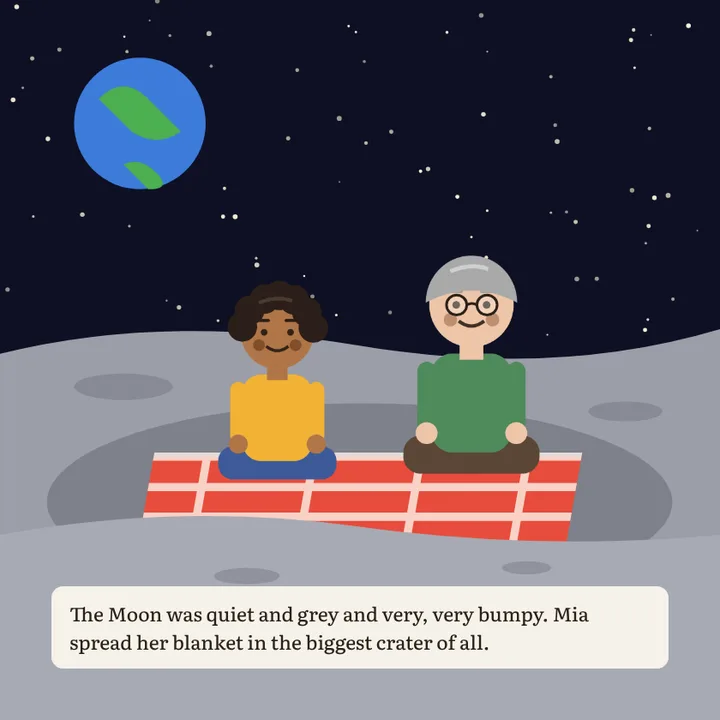
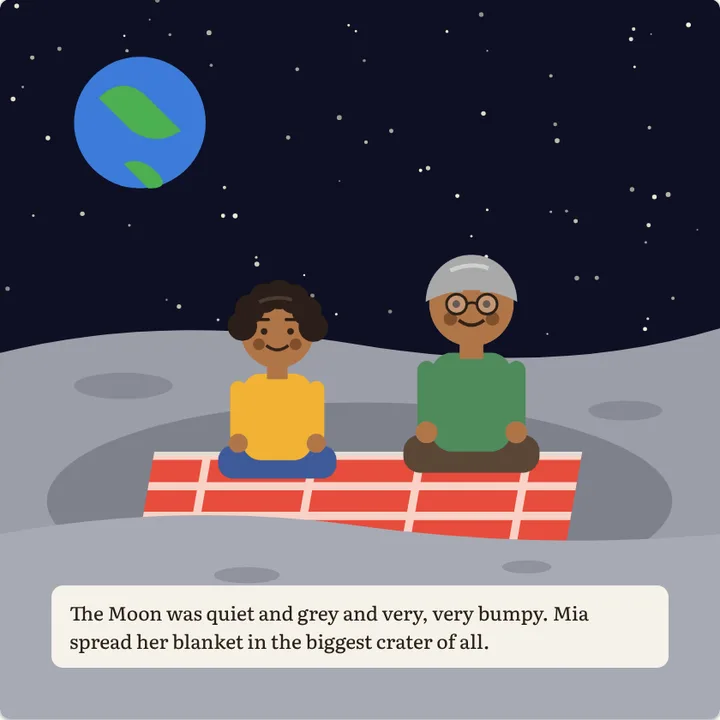
Landing samples pair a parent and child of similar skin tone
The marketing copies of The Paper Boat page 1 now show a very light mum and boy
(skin:s1) and a dark grandmother and girl with braids (skin:s5); The Moon Picnic
page 4 shows Mia and Grandpa both at skin:s4. Captured from the seeded stories'
previews (current v6 pages), same sizes and WebP settings as before; the social
preview is rebuilt from them. Alt text describes the new pairs. A choice for
these samples only: families can still mix any looks.

Amp-Thread-ID: https://ampcode.com/threads/T-01a1f6ae-d33a-709a-9aea-0f0f43e89e7d

diff --git a/apps/web/src/components/landing.tsx b/apps/web/src/components/landing.tsx
@@ -63,7 +63,7 @@ export function Landing() {
             <div className="grid grid-cols-2 gap-3">
               <img
                 src="/marketing/paper-boat-family-1.webp"
-                alt="The Paper Boat, page 1: a boy with glasses and his mum walk to the pond"
+                alt="The Paper Boat, page 1: a fair-skinned boy with glasses points to the pond beside his mum, who has long brown hair"
                 width={640}
                 height={640}
                 fetchPriority="high"
@@ -71,7 +71,7 @@ export function Landing() {
               />
               <img
                 src="/marketing/paper-boat-family-2.webp"
-                alt="The same page drawn with a girl with long black hair and a grandmother with long grey hair"
+                alt="The same page drawn with a dark-skinned girl with black braids and her grandmother with long grey hair"
                 width={640}
                 height={640}
                 fetchPriority="high"
@@ -131,7 +131,7 @@ export function Landing() {
           </div>
           <img
             src="/marketing/moon-picnic.webp"
-            alt="The Moon Picnic: a girl and her grandpa have a picnic on the Moon"
+            alt="The Moon Picnic: a brown-skinned girl and her grandpa have a picnic on the Moon"
             width={720}
             height={720}
             loading="lazy"
